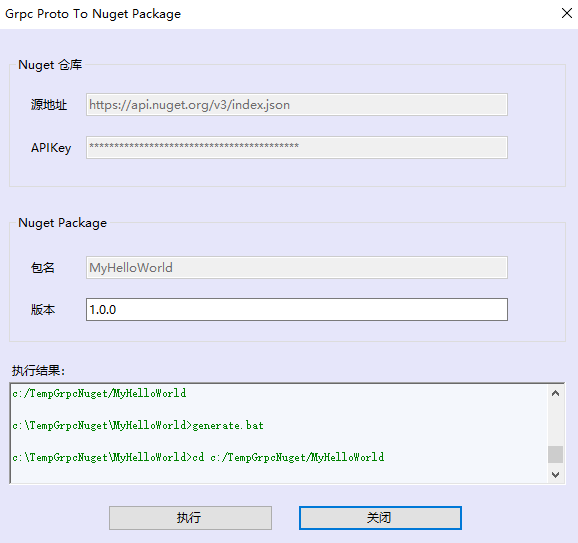
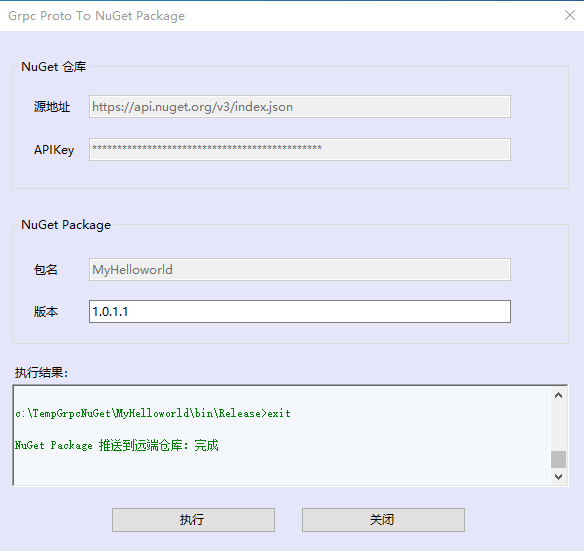
Site updated: 2019-09-01 02:14:19

diff --git a/2019/08/11/aspnet-ptp/index.html b/2019/08/11/aspnet-ptp/index.html
@@ -84,20 +84,20 @@
 <meta name="description" content="背景一直以来我们使用 gRPC 来进行微服务开发，对 gRPC 有过了解应该清楚它依赖 proto 接口定义文件来实现的，在进行服务调用之前，需要先通过 proto 文件来生成当前服务使用语言的客户端代码，然后就可以实现调用本地方法一样调用远程服务。（目前已存在不用生成客户端代码就可以调用方法的方式，但与本文的重点不一样） 在 .NET 开发中，我们目前的方式是通过  proto 文件生成客户端代">
 <meta name="keywords" content="ASP.NET,VSIX">
 <meta property="og:type" content="article">
-<meta property="og:title" content="VS 扩展开发：Grpc Proto To Nuget Package">
+<meta property="og:title" content="VS 扩展开发：Grpc Proto To NuGet Package">
 <meta property="og:url" content="http://www.beckjin.com/2019/08/11/aspnet-ptp/index.html">
 <meta property="og:site_name" content="Beck&#39;s Blog">
 <meta property="og:description" content="背景一直以来我们使用 gRPC 来进行微服务开发，对 gRPC 有过了解应该清楚它依赖 proto 接口定义文件来实现的，在进行服务调用之前，需要先通过 proto 文件来生成当前服务使用语言的客户端代码，然后就可以实现调用本地方法一样调用远程服务。（目前已存在不用生成客户端代码就可以调用方法的方式，但与本文的重点不一样） 在 .NET 开发中，我们目前的方式是通过  proto 文件生成客户端代">
 <meta property="og:locale" content="zh-Hans">
 <meta property="og:image" content="http://www.beckjin.com/img/aspnet-ptp/templateStructure.png">
 <meta property="og:image" content="http://www.beckjin.com/img/aspnet-ptp/template.png">
-<meta property="og:image" content="http://www.beckjin.com/img/aspnet-ptp/grpcProtoToNugetPackage.png">
+<meta property="og:image" content="http://www.beckjin.com/img/aspnet-ptp/grpcProtoToNuGetPackage.png">
 <meta property="og:image" content="http://www.beckjin.com/img/aspnet-ptp/nugetPackageSetting.png">
 <meta property="og:image" content="http://www.beckjin.com/img/aspnet-ptp/publishedPackages.png">
 <meta property="og:image" content="http://www.beckjin.com/img/aspnet-ptp/installMyHelloworld.png">
-<meta property="og:updated_time" content="2019-08-11T09:39:33.783Z">
+<meta property="og:updated_time" content="2019-08-31T17:21:52.716Z">
 <meta name="twitter:card" content="summary">
-<meta name="twitter:title" content="VS 扩展开发：Grpc Proto To Nuget Package">
+<meta name="twitter:title" content="VS 扩展开发：Grpc Proto To NuGet Package">
 <meta name="twitter:description" content="背景一直以来我们使用 gRPC 来进行微服务开发，对 gRPC 有过了解应该清楚它依赖 proto 接口定义文件来实现的，在进行服务调用之前，需要先通过 proto 文件来生成当前服务使用语言的客户端代码，然后就可以实现调用本地方法一样调用远程服务。（目前已存在不用生成客户端代码就可以调用方法的方式，但与本文的重点不一样） 在 .NET 开发中，我们目前的方式是通过  proto 文件生成客户端代">
 <meta name="twitter:image" content="http://www.beckjin.com/img/aspnet-ptp/templateStructure.png">
 
@@ -135,7 +135,7 @@
 
 
 
-  <title>VS 扩展开发：Grpc Proto To Nuget Package | Beck's Blog</title>
+  <title>VS 扩展开发：Grpc Proto To NuGet Package | Beck's Blog</title>
   
 
 
@@ -281,7 +281,7 @@
 
         
         
-          <h2 class="post-title" itemprop="name headline">VS 扩展开发：Grpc Proto To Nuget Package</h2>
+          <h2 class="post-title" itemprop="name headline">VS 扩展开发：Grpc Proto To NuGet Package</h2>
         
 
         <div class="post-meta">
@@ -333,7 +333,7 @@
 
           
           
-             <span id="/2019/08/11/aspnet-ptp/" class="leancloud_visitors" data-flag-title="VS 扩展开发：Grpc Proto To Nuget Package">
+             <span id="/2019/08/11/aspnet-ptp/" class="leancloud_visitors" data-flag-title="VS 扩展开发：Grpc Proto To NuGet Package">
                <span class="post-meta-divider">|</span>
                <span class="post-meta-item-icon">
                  <i class="fa fa-eye"></i>
@@ -365,63 +365,63 @@
 
       
         <h3 id="背景"><a href="#背景" class="headerlink" title="背景"></a>背景</h3><p>一直以来我们使用 <a href="https://grpc.io/" target="_blank" rel="noopener">gRPC</a> 来进行微服务开发，对 gRPC 有过了解应该清楚它依赖 <code>proto</code> 接口定义文件来实现的，在进行服务调用之前，需要先通过 <code>proto</code> 文件来生成当前服务使用语言的客户端代码，然后就可以实现调用本地方法一样调用远程服务。（<em>目前已存在不用生成客户端代码就可以调用方法的方式，但与本文的重点不一样</em>）</p>
-<p>在 .NET 开发中，我们目前的方式是通过  <code>proto</code> 文件生成客户端代码并建成 Nuget Package ，然后推送到自己的私有 Nuget 仓库，最后在服务内进行 Nuget Package 安装来引用服务，这样不至于需要调用此服务的服务每次都 copy 代码，希望简化一些工作量。</p>
-<p>但问题又来了，要实现推送到自己的私有 Nuget 仓库的步骤实在太多，这样依然效率低下，最后决定团队内决定自己开发一个 VS 插件 <a href="https://marketplace.visualstudio.com/items?itemName=Mingdao.ptp" target="_blank" rel="noopener">Grpc Proto To Nuget Package</a> ，目的是一键生成 Nuget Package 并发布到私有仓库。</p>
+<p>在 .NET 开发中，我们目前的方式是通过  <code>proto</code> 文件生成客户端代码并建成 NuGet Package ，然后推送到自己的私有 NuGet 仓库，最后在服务内进行 NuGet Package 安装来引用服务，这样不至于需要调用此服务的服务每次都 copy 代码，希望简化一些工作量。</p>
+<p>但问题又来了，要实现推送到自己的私有 NuGet 仓库的步骤实在太多，这样依然效率低下，最后决定团队内决定自己开发一个 VS 插件 <a href="https://marketplace.visualstudio.com/items?itemName=Mingdao.ptp" target="_blank" rel="noopener">Grpc Proto To NuGet Package</a> ，目的是一键生成 NuGet Package 并发布到私有仓库。</p>
 <h3 id="实现方案"><a href="#实现方案" class="headerlink" title="实现方案"></a>实现方案</h3><ol>
 <li><p>创建 Grpc 客户端项目模板，关于 .NET 项目模板创建可参考文章：<a href="http://beckjin.com/2019/08/04/aspnet-template/" target="_blank" rel="noopener">ASP.NET 自定义项目模板</a> ；</p>
 </li>
-<li><p>创建 VS 扩展插件 <code>Grpc Proto To Nuget Package</code>；</p>
+<li><p>创建 VS 扩展插件 <code>Grpc Proto To NuGet Package</code>；</p>
 </li>
-<li><p>右键选中 <code>protos</code> 文件夹 (<code>proto</code> 接口定义文件存放位置，文件夹名固定为 <code>protos</code> )，在右键菜单中点击 <code>Grpc Proto To Nuget Package</code>，配置私有 Nuget 仓库源地址和 API Key，然后会自动创建基于项目模板的临时项目，同时会把 <code>protos</code> 文件夹复制到临时项目中，执行生成客户端代码命令（<em>注：公共的 <code>proto</code> 文件可放在 <code>protos/common</code> 下，否则都需要放在 <code>protos</code> 文件夹根目录</em>）；</p>
+<li><p>右键选中 <code>protos</code> 文件夹 (<code>proto</code> 接口定义文件存放位置，文件夹名固定为 <code>protos</code> )，在右键菜单中点击 <code>Grpc Proto To NuGet Package</code>，配置私有 NuGet 仓库源地址和 API Key，然后会自动创建基于项目模板的临时项目，同时会把 <code>protos</code> 文件夹复制到临时项目中，执行生成客户端代码命令（<em>注：公共的 <code>proto</code> 文件可放在 <code>protos/common</code> 下，否则都需要放在 <code>protos</code> 文件夹根目录</em>）；</p>
 </li>
 <li><p>介于 Grpc 客户端调用需要对 channel 进行复用，所以同时会基于 T4 模板自动生成复用 channel 的 client 代码，使在调用时不用考虑 channel 复用问题 ；</p>
 </li>
-<li><p>最终通过 <code>dotnet build</code> 和 <code>dotnet nuget push</code> 将客户端代码的 Nuget Package 推送到私有仓库；</p>
+<li><p>最终通过 <code>dotnet build</code> 和 <code>dotnet nuget push</code> 将客户端代码的 NuGet Package 推送到私有仓库；</p>
 </li>
 <li><p>删除临时项目。</p>
 </li>
 </ol>
 <h3 id="使用方法"><a href="#使用方法" class="headerlink" title="使用方法"></a>使用方法</h3><ol>
-<li><p>下载最新 <a href="https://github.com/mingdaocom/GrpcProtoToNugetPackage/releases" target="_blank" rel="noopener">GrpcProtoToNugetPackageTemplate.zip</a> ASP.NET 的项目模板；</p>
+<li><p>下载最新 <a href="https://github.com/mingdaocom/GrpcProtoToNuGetPackage/releases" target="_blank" rel="noopener">GrpcProtoToNuGetPackageTemplate.zip</a> ASP.NET 的项目模板；</p>
 </li>
-<li><p>解压 <code>GrpcProtoToNugetPackageTemplate.zip</code>，在安装之前最好对以下文件进行必要的修改，主要是团队相关信息：</p>
-<p><code>Content/.template.config/template.json</code>:  author<br><code>Grpc.Proto.To.Nuget.Package.nuspec</code>:  authors<br><code>GrpcProtoToNugetPackage.csproj</code>: Authors、Company、RepositoryUrl，其他看情况修改如：<code>TargetFrameworks</code> .</p>
+<li><p>解压 <code>GrpcProtoToNuGetPackageTemplate.zip</code>，在安装之前最好对以下文件进行必要的修改，主要是团队相关信息：</p>
+<p><code>Content/.template.config/template.json</code>:  author<br><code>Grpc.Proto.To.NuGet.Package.nuspec</code>:  authors<br><code>GrpcProtoToNuGetPackage.csproj</code>: Authors、Company、RepositoryUrl，其他看情况修改如：<code>TargetFrameworks</code> .</p>
 <p><img src="/img/aspnet-ptp/templateStructure.png" alt="模板结构"></p>
 </li>
-<li><p>执行 <code>nuget pack Grpc.Proto.To.Nuget.Package.nuspec</code>（nuget 如果不存在，需要下载并将 nuget.exe 添加到环境变量） 生成 <code>Grpc.Proto.To.Nuget.Package.1.0.0.nupkg</code>；</p>
+<li><p>执行 <code>nuget pack Grpc.Proto.To.NuGet.Package.nuspec</code>（nuget 如果不存在，需要下载并将 nuget.exe 添加到环境变量） 生成 <code>Grpc.Proto.To.NuGet.Package.1.0.0.nupkg</code>；</p>
 </li>
-<li><p>执行 <code>dotnet new -i Grpc.Proto.To.Nuget.Package.1.0.0.nupkg</code> 进行模板安装；</p>
+<li><p>执行 <code>dotnet new -i Grpc.Proto.To.NuGet.Package.1.0.0.nupkg</code> 进行模板安装；</p>
 </li>
-<li><p>安装成功后，可通过 <code>dotnew new -u</code> 进行查看现有的项目模板，如下：<code>Grpc.Proto.To.Nuget.Package</code> 即安装的项目模板，如果需要卸载，执行 <code>dotnew new -u Grpc.Proto.To.Nuget.Package</code></p>
-<p><img src="/img/aspnet-ptp/template.png" alt="Grpc.Proto.To.Nuget.Package.Template"></p>
+<li><p>安装成功后，可通过 <code>dotnew new -u</code> 进行查看现有的项目模板，如下：<code>Grpc.Proto.To.NuGet.Package</code> 即安装的项目模板，如果需要卸载，执行 <code>dotnew new -u Grpc.Proto.To.NuGet.Package</code></p>
+<p><img src="/img/aspnet-ptp/template.png" alt="Grpc.Proto.To.NuGet.Package.Template"></p>
 </li>
-<li><p>下载最新版 <a href="https://github.com/mingdaocom/GrpcProtoToNugetPackage/releases" target="_blank" rel="noopener">GrpcProtoToNugetPackage.vsix</a>，在关闭所有 VS 窗口下安装此插件；</p>
+<li><p>下载最新版 <a href="https://github.com/mingdaocom/GrpcProtoToNuGetPackage/releases" target="_blank" rel="noopener">GrpcProtoToNuGetPackage.vsix</a>，在关闭所有 VS 窗口下安装此插件；</p>
 </li>
 <li><p>安装成功后，VS 中打开含 <code>proto</code> 文件的项目（注：<code>proto</code> 文件必须放在 <code>protos</code> 文件夹下）；</p>
 </li>
-<li><p>在 <code>protos</code> 文件夹右键选择 <code>Grpc Proto To Nuget Package</code>，如下：</p>
-<p><img src="/img/aspnet-ptp/grpcProtoToNugetPackage.png" alt="Grpc.Proto.To.Nuget.Package"></p>
+<li><p>在 <code>protos</code> 文件夹右键选择 <code>Grpc Proto To NuGet Package</code>，如下：</p>
+<p><img src="/img/aspnet-ptp/grpcProtoToNuGetPackage.png" alt="Grpc.Proto.To.NuGet.Package"></p>
 </li>
-<li><p>点击后会弹出配置窗口，设置 Nuget Package 要推送到的 <code>源地址</code> 和 <code>APIKey</code>（只需首次设置）</p>
+<li><p>点击后会弹出配置窗口，设置 NuGet Package 要推送到的 <code>源地址</code> 和 <code>APIKey</code>（只需首次设置）</p>
 <p><em>可在 <a href="https://www.nuget.org" target="_blank" rel="noopener">https://www.nuget.org</a> 官网注册账号，并创建 API Key 进行测试，不过这样是推送的公共平台上。</em></p>
-<p><img src="/img/aspnet-ptp/nugetPackageSetting.png" alt="Nuget Package Setting"></p>
+<p><img src="/img/aspnet-ptp/nugetPackageSetting.png" alt="NuGet Package Setting"></p>
 </li>
-<li><p>输入 Nuget Package 版本号（目前需要手动输入）</p>
-<p>执行过程中使用的资源文件会暂存到 <code>C:\TempGrpcNuget</code> 目录下。首次会创建 <code>repository.json</code> 保存 Nuget 仓库的配置信息，接下来每次会根据包名创建一个临时项目用于生成对应 Nuget Package，如果有问题，一般是因不符合规范导致编译不通过，这时候可在临时项目中通过 <code>dotnet build</code> 进行编译或通过 VS 添加现有项目查看具体问题。</p>
+<li><p>设置 NuGet Package 版本号（默认为当前最大版本的 revision 位加 1）</p>
+<p>执行过程中使用的资源文件会暂存到 <code>C:\TempGrpcNuGet</code> 目录下。首次会创建 <code>repository.json</code> 保存 NuGet 仓库的配置信息，接下来每次会根据包名创建一个临时项目用于生成对应 NuGet Package，如果有问题，一般是因不符合规范导致编译不通过，这时候可在临时项目中通过 <code>dotnet build</code> 进行编译或通过 VS 添加现有项目查看具体问题。</p>
 </li>
 <li><p>执行，注意执行结果内的输出日志，确保推送到远端仓库 OK</p>
 <p> <img src="/img/aspnet-ptp/publishedPackages.png" alt="Published Packages"></p>
 </li>
-<li><p>Nuget Package 安装与使用</p>
+<li><p>NuGet Package 安装与使用</p>
 <p><img src="/img/aspnet-ptp/installMyHelloworld.png" alt="Install MyHelloworld"></p>
 <figure class="highlight plain"><table><tr><td class="gutter"><pre><span class="line">1</span><br><span class="line">2</span><br><span class="line">3</span><br><span class="line">4</span><br><span class="line">5</span><br><span class="line">6</span><br><span class="line">7</span><br><span class="line">8</span><br><span class="line">9</span><br><span class="line">10</span><br><span class="line">11</span><br><span class="line">12</span><br><span class="line">13</span><br><span class="line">14</span><br><span class="line">15</span><br></pre></td><td class="code"><pre><span class="line">static void Main(string[] args)</span><br><span class="line">&#123;</span><br><span class="line">	// client 集合</span><br><span class="line">	var clientContainer = new ClientContainer(&quot;127.0.0.1:1234&quot;);</span><br><span class="line"></span><br><span class="line">	// GreeterClient，如果有多个 Client，也是直接从 clientContainer 中获取</span><br><span class="line">	var greeterClient = clientContainer.GreeterClient;</span><br><span class="line"></span><br><span class="line">	var response = greeterClient.SayHello(new HelloRequest</span><br><span class="line">	&#123;</span><br><span class="line">		Name = &quot;BeckJin&quot;</span><br><span class="line">	&#125;);</span><br><span class="line"></span><br><span class="line">	Console.WriteLine(response.Message);</span><br><span class="line">&#125;</span><br></pre></td></tr></table></figure>
 </li>
 </ol>
-<h3 id="总结"><a href="#总结" class="headerlink" title="总结"></a>总结</h3><p>以上主要是实现方案及使用方法的具体说明，实际使用 <code>Grpc Proto To Nuget Package</code> 只需如下 3 步：</p>
+<h3 id="总结"><a href="#总结" class="headerlink" title="总结"></a>总结</h3><p>以上主要是实现方案及使用方法的具体说明，实际使用 <code>Grpc Proto To NuGet Package</code> 只需如下 3 步：</p>
 <ol>
-<li>安装 <code>GrpcProtoToNugetPackageTemplate</code> 项目模板；</li>
-<li>安装 <code>Grpc Proto To Nuget Package</code> VS 插件；</li>
-<li>配置私有 Nuget 仓库；</li>
+<li>安装 <code>GrpcProtoToNuGetPackageTemplate</code> 项目模板；</li>
+<li>安装 <code>Grpc Proto To NuGet Package</code> VS 插件；</li>
+<li>配置私有 NuGet 仓库；</li>
 </ol>
 
       

diff --git a/index.html b/index.html
@@ -272,7 +272,7 @@
         
           <h2 class="post-title" itemprop="name headline">
                 
-                <a class="post-title-link" href="/2019/08/11/aspnet-ptp/" itemprop="url">VS 扩展开发：Grpc Proto To Nuget Package</a></h2>
+                <a class="post-title-link" href="/2019/08/11/aspnet-ptp/" itemprop="url">VS 扩展开发：Grpc Proto To NuGet Package</a></h2>
         
 
         <div class="post-meta">
@@ -324,7 +324,7 @@
 
           
           
-             <span id="/2019/08/11/aspnet-ptp/" class="leancloud_visitors" data-flag-title="VS 扩展开发：Grpc Proto To Nuget Package">
+             <span id="/2019/08/11/aspnet-ptp/" class="leancloud_visitors" data-flag-title="VS 扩展开发：Grpc Proto To NuGet Package">
                <span class="post-meta-divider">|</span>
                <span class="post-meta-item-icon">
                  <i class="fa fa-eye"></i>

diff --git a/2019/08/04/aspnet-template/index.html b/2019/08/04/aspnet-template/index.html
@@ -478,8 +478,8 @@
 
           <div class="post-nav-prev post-nav-item">
             
-              <a href="/2019/08/11/aspnet-ptp/" rel="prev" title="VS 扩展开发：Grpc Proto To Nuget Package">
-                VS 扩展开发：Grpc Proto To Nuget Package <i class="fa fa-chevron-right"></i>
+              <a href="/2019/08/11/aspnet-ptp/" rel="prev" title="VS 扩展开发：Grpc Proto To NuGet Package">
+                VS 扩展开发：Grpc Proto To NuGet Package <i class="fa fa-chevron-right"></i>
               </a>
             
           </div>

diff --git a/archives/2019/08/index.html b/archives/2019/08/index.html
@@ -276,7 +276,7 @@
         
             <a class="post-title-link" href="/2019/08/11/aspnet-ptp/" itemprop="url">
               
-                <span itemprop="name">VS 扩展开发：Grpc Proto To Nuget Package</span>
+                <span itemprop="name">VS 扩展开发：Grpc Proto To NuGet Package</span>
               
             </a>
         

diff --git a/archives/2019/index.html b/archives/2019/index.html
@@ -276,7 +276,7 @@
         
             <a class="post-title-link" href="/2019/08/11/aspnet-ptp/" itemprop="url">
               
-                <span itemprop="name">VS 扩展开发：Grpc Proto To Nuget Package</span>
+                <span itemprop="name">VS 扩展开发：Grpc Proto To NuGet Package</span>
               
             </a>
         

diff --git a/archives/index.html b/archives/index.html
@@ -276,7 +276,7 @@
         
             <a class="post-title-link" href="/2019/08/11/aspnet-ptp/" itemprop="url">
               
-                <span itemprop="name">VS 扩展开发：Grpc Proto To Nuget Package</span>
+                <span itemprop="name">VS 扩展开发：Grpc Proto To NuGet Package</span>
               
             </a>
         

diff --git a/categories/ASP-NET/index.html b/categories/ASP-NET/index.html
@@ -259,7 +259,7 @@
         
             <a class="post-title-link" href="/2019/08/11/aspnet-ptp/" itemprop="url">
               
-                <span itemprop="name">VS 扩展开发：Grpc Proto To Nuget Package</span>
+                <span itemprop="name">VS 扩展开发：Grpc Proto To NuGet Package</span>
               
             </a>
         

diff --git a/tags/ASP-NET/index.html b/tags/ASP-NET/index.html
@@ -259,7 +259,7 @@
         
             <a class="post-title-link" href="/2019/08/11/aspnet-ptp/" itemprop="url">
               
-                <span itemprop="name">VS 扩展开发：Grpc Proto To Nuget Package</span>
+                <span itemprop="name">VS 扩展开发：Grpc Proto To NuGet Package</span>
               
             </a>
         

diff --git a/tags/VSIX/index.html b/tags/VSIX/index.html
@@ -259,7 +259,7 @@
         
             <a class="post-title-link" href="/2019/08/11/aspnet-ptp/" itemprop="url">
               
-                <span itemprop="name">VS 扩展开发：Grpc Proto To Nuget Package</span>
+                <span itemprop="name">VS 扩展开发：Grpc Proto To NuGet Package</span>
               
             </a>
         

diff --git a/css/main.css b/css/main.css
@@ -1928,7 +1928,7 @@ pre .javascript .function {
   width: 4px;
   height: 4px;
   border-radius: 50%;
-  background: #eeffa3;
+  background: #fff;
 }
 .links-of-blogroll {
   font-size: 13px;
